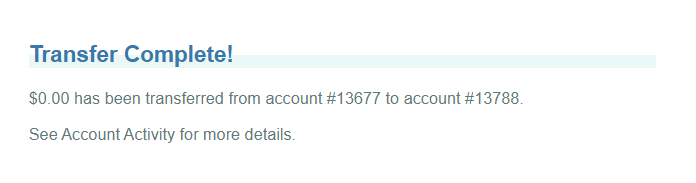
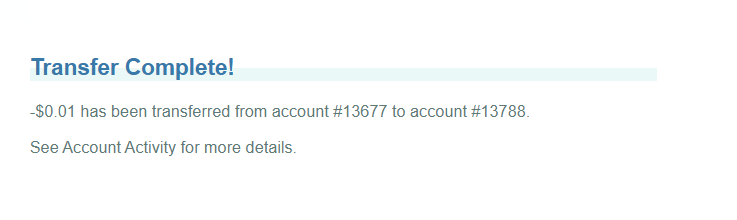
Спринт 3: виправлення за рев'ю викладача

Changed region(s): [[0.0302, 0.4645, 0.7543, 0.5738], [0.0302, 0.6284, 0.4224, 0.765], [0.0302, 0.2459, 0.3319, 0.3825]]

diff --git a/docs/sprint3/README.md b/docs/sprint3/README.md
@@ -1,7 +1,7 @@
 # Спринт 3 — «Тест-кейси та звіти про дефекти» (Досьє якості v3)
 
 **Дисципліна:** Технології забезпечення якості програмних засобів  
-**Команда:** Група F  
+**Команда:** Група D  
 **Продукт:** П2 «ФінКит» (`finkit`) — онлайн-банкінг для фізичних осіб; тестується demo-застосунок ParaBank  
 **Дата демо:** 23.11.2026  
 **Репозиторій команди:** [https://github.com/0ffmama/FinKit](https://github.com/0ffmama/FinKit)
@@ -11,48 +11,49 @@
 | ПІБ учасника | GitHub | Роль у Спринті 3 | Основна зона відповідальності у Спринті 3 |
 | :--- | :--- | :--- | :--- |
 | **Гонтар М. П.** | `@riply-a` | **Керівник тестування + Скрам-майстер / рецензент (КТ/СМ)** | Декомпозиція вимог, таблиця кейсів і журналу, контроль покриття й нормативів, рішення щодо P1/P2/blocked, рецензування кожного кейсу і звіту, README, таблиця задач, демо, ретроспектива |
-| **Фомін Т. В.** | `@0ffmama` | **Тест-аналітик (ТА)** | Тестові дані з префіксом `GD-`, кейси блоку B (перекази, оплата, кредит), виконання кейсів блоку A, звіти BUG-01…05 |
-| **Бугай Д. С.** | `@fialkaaw` | **Інженер з тестування (ІТ)** | Шаблон `bug_report.md` і мітки GitHub, середовище, кейси блоку A, виконання кейсів блоку B і журналу, звіти BUG-06…13 |
+| **Фомін Т. В.** | `@0ffmama` | **Тест-аналітик (ТА)** | Тестові дані з префіксом `GD-`, кейси блоку B (перекази, оплата, кредит), виконання кейсів блоку A, звіти BUG-01…05, BUG-15 |
+| **Бугай Д. С.** | `@fialkaaw` | **Інженер з тестування (ІТ)** | Шаблон `bug_report.md` і мітки GitHub, середовище, кейси блоку A, виконання кейсів блоку B і журналу, звіти BUG-06…14 |
 
 ## 2. Структура артефактів Спринта 3 у папці `docs/sprint3/`
 
-* [test-cases.md](./test-cases.md) (посилання на Google Sheets) — набір із 38 тест-кейсів (аркуші Test cases, Coverage, Review), журнал виконання Run 1, Environment і Test data.
-* [task-board.md](./task-board.md) — таблиця розподілу задач Спринта 3 (Шаблон 2).
+* [test-cases.xlsx](./test-cases.xlsx) — набір із 42 тест-кейсів (аркуші Test cases, Coverage, Review), журнал виконання Run 1, Environment і Test data; експорт робочої Google-таблиці ([test-cases.md](./test-cases.md)) станом на 23.11.2026 (§8).
+* [task-board.xlsx](./task-board.xlsx) — таблиця розподілу задач Спринта 3 (Шаблон 2); експорт робочої Google-таблиці ([task-board.md](./task-board.md)).
 * [attachments/](./attachments/) — скріншоти до звітів про дефекти (`BUG-NN-k.png`).
-* [GitHub Issues](https://github.com/0ffmama/FinKit/issues) — звіти про дефекти BUG-01…BUG-13.
+* [GitHub Issues](https://github.com/0ffmama/FinKit/issues) — звіти про дефекти BUG-01…BUG-15 (мітка `sprint:3`).
 * [retro.md](./retro.md) — протокол ретроспективи Спринта 3 за схемою `Start / Stop / Continue` та рішення на Спринт 4.
 
 ## 3. Статистика
 
 | Показник | Значення | Норматив |
 | :--- | :--- | :--- |
-| Тест-кейсів | 38 (позитивних 12, негативних 13, граничних 13) | ≥ 15 |
-| Виконано (Run 1) | passed 24, failed 10, skipped 3 (TC-025, TC-026, TC-038); TC-008 — повторний прогін після зміни даних; pass rate 24 / 34 = 70,6 % | усі |
-| Кейсів, що пройшли рецензування | 38 із 38 (100 %) | 100 % |
-| Звітів про дефекти | 12 дійсних (BUG-01…08, 10, 12, 13, 14); ще 2 закрито: BUG-09 — дубль BUG-06, BUG-11 — не дефект | ≥ 6 |
-| Рівні severity | critical (3), major (5), normal (2), minor (2) | ≥ 3 різних |
-| Звітів, що пройшли рецензування | 12 із 12 дійсних (100 %) | 100 % |
+| Тест-кейсів | 42 (позитивних 12, негативних 15, граничних 15); TC-023 і TC-029 розділено за правилом «один кейс — один набір даних» (§4.5): нові TC-039…TC-042 | ≥ 15 |
+| Виконано (Run 1) | 42 із 42: passed 25, failed 13, blocked 4 (TC-008 — BUG-15; TC-025, TC-026, TC-038 — немає тестових даних), skipped 0; pass rate = passed / (passed + failed + blocked) = 25 / 42 = 59,5 % | усі |
+| Кейсів, що пройшли рецензування | 32 із 42; 10 змінених за рев'ю кейсів (TC-001, 023, 025, 026, 029, 038, 039–042) — на повторній рецензії | 100 % |
+| Звітів про дефекти | 13 дійсних (BUG-01…08, 10, 12, 13, 14, 15); ще 2 закрито (`status:rejected`): BUG-09 — дубль BUG-06, BUG-11 — не дефект | ≥ 6 |
+| Рівні severity | critical (4), major (5), normal (2), minor (2); priority: P2 (1 — BUG-15), P3 (12) | ≥ 3 різних |
+| Звітів, що пройшли рецензування | 12 із 13 дійсних; BUG-15 (створено 23.11.2026) — на рецензії | 100 % |
 
 ## 4. Дефекти
 
 | ID | Issue | Короткий опис | Severity | Вимога | Виявлено кейсом |
 | :--- | :--- | :--- | :--- | :--- | :--- |
 | BUG-01 | [#1](https://github.com/0ffmama/FinKit/issues/1) | Реєстрація з порожнім полем «Телефон» створює обліковий запис без повідомлення про обов'язковість | major | GUI-30 | TC-002 |
-| BUG-02 | [#2](https://github.com/0ffmama/FinKit/issues/2) | «Пошук клієнта» повідомляє «не знайдено», якщо збіжні дані мають два і більше клієнтів | normal | F-30 | TC-008 (Run 1 до зміни даних; повторний прогін) |
+| BUG-02 | [#2](https://github.com/0ffmama/FinKit/issues/2) | «Пошук клієнта» повідомляє «не знайдено», якщо збіжні дані мають два і більше клієнтів | normal | F-30 | TC-008 (прогін 17.11.2026 з дублікатами даних; відтворюється власними кроками звіту) |
 | BUG-03 | [#3](https://github.com/0ffmama/FinKit/issues/3) | «Пошук операцій» за датою без операцій показує порожню таблицю без повідомлення | minor | F-90 | TC-011 |
 | BUG-04 | [#4](https://github.com/0ffmama/FinKit/issues/4) | Пряме посилання на сторінку кабінету після виходу повертає HTTP 500 замість сторінки входу | normal | S-20, F-120 | TC-014 |
 | BUG-05 | [#5](https://github.com/0ffmama/FinKit/issues/5) | Сеанс не завершується після 15 хвилин бездіяльності | major | S-10, GUI-80 | TC-017 |
 | BUG-06 | [#6](https://github.com/0ffmama/FinKit/issues/6) | Переказ на суму більшу за баланс (X + 0,01) виконується і формує від'ємний баланс | critical | F-70, BL-40 | TC-022 |
-| BUG-07 | [#7](https://github.com/0ffmama/FinKit/issues/7) | Переказ приймає нульову та від'ємну суми (0; -0,01) | critical | BL-40, GUI-50, GUI-75 | TC-023 |
+| BUG-07 | [#7](https://github.com/0ffmama/FinKit/issues/7) | Переказ приймає нульову та від'ємну суми (0; -0,01) | critical | BL-40, GUI-50 | TC-040, TC-041 |
 | BUG-08 | [#8](https://github.com/0ffmama/FinKit/issues/8) | Переказ із рахунку на той самий рахунок виконується без помилки | major | F-70, BL-40 | TC-024 |
-| ~~BUG-09~~ | [#9](https://github.com/0ffmama/FinKit/issues/9) | Закрито як дубль BUG-06: переказ 50 000,01 з рахунку з малим балансом показує перевищення балансу, а не денного ліміту | — | F-70, BL-40 | TC-026 (skipped) |
+| ~~BUG-09~~ | [#9](https://github.com/0ffmama/FinKit/issues/9) | Закрито як дубль BUG-06: переказ 50 000,01 з рахунку з малим балансом показує перевищення балансу, а не денного ліміту | — | F-70, BL-40 | TC-026 (blocked) |
 | BUG-10 | [#10](https://github.com/0ffmama/FinKit/issues/10) | Оплата рахунку на суму, що перевищує баланс (X + 0,01), виконується замість відхилення | critical | F-80 | TC-030 |
 | ~~BUG-11~~ | [#11](https://github.com/0ffmama/FinKit/issues/11) | Закрито як не дефект: demo відхилило заявку з поясненням причини, що допускає F-110 | — | F-110 | TC-031 (passed) |
 | BUG-12 | [#12](https://github.com/0ffmama/FinKit/issues/12) | Схвалюється заявка на кредит 999,99 грн, що менше мінімальної суми 1 000 грн | major | F-110, BL-30 | TC-032 |
 | BUG-13 | [#13](https://github.com/0ffmama/FinKit/issues/13) | Для суми кредиту 1 000 000,01 грн відмова пояснюється нестачею коштів замість перевищення максимуму | minor | F-110, BL-30 | TC-035 |
-| BUG-14 | [#14](https://github.com/0ffmama/FinKit/issues/14) | Переказ із порожньою або нечисловою («abc») сумою дає внутрішню помилку замість повідомлення біля поля | major | GUI-50, GUI-75 | TC-023 |
+| BUG-14 | [#14](https://github.com/0ffmama/FinKit/issues/14) | Переказ із порожньою або нечисловою («abc») сумою дає внутрішню помилку замість повідомлення біля поля | major | GUI-50, GUI-75 | TC-023, TC-039 |
+| BUG-15 | [#15](https://github.com/0ffmama/FinKit/issues/15) | Реєстрація з кириличними даними відхиляється з повідомленням «This username already exists» для нового логіна (з 23.11.2026) | critical | F-10, GUI-30 | TC-008 (повторний прогін 23.11.2026 — blocked) |
 
-Усі дефекти мають priority P3 (не блокують виконання інших кейсів).
+Усі дефекти, крім BUG-15, мають priority P3 (не блокують виконання інших кейсів). BUG-15 — P2: блокує повторний прогін TC-008 (статус blocked із цим Bug ID, §4.13).
 
 ## 5. Покриття вимог
 
@@ -66,8 +67,8 @@
 | F-40 | TC-018 |  |
 | F-50 | TC-019 |  |
 | F-60 | TC-018 |  |
-| F-70 | TC-020, TC-021, TC-022, TC-024, TC-025, TC-026, TC-037, TC-038 |  |
-| F-80 | TC-027, TC-029, TC-030 | Текст помилки «недостатньо коштів» SRS не задає |
+| F-70 | TC-020, TC-021, TC-022, TC-023, TC-024, TC-025, TC-026, TC-037, TC-038, TC-039, TC-040, TC-041 |  |
+| F-80 | TC-027, TC-029, TC-030, TC-042 | Текст помилки «недостатньо коштів» SRS не задає |
 | F-90 | TC-010, TC-011 | Покрито ID і дату; діапазон і суму додати за потреби |
 | F-100 | TC-012, TC-013 |  |
 | F-110 | TC-031, TC-032, TC-033, TC-034, TC-035, TC-036 |  |
@@ -78,16 +79,19 @@
 | GUI-30 | TC-001, TC-002, TC-003, TC-004 |  |
 | GUI-40 | TC-001, TC-005 |  |
 | GUI-45 | TC-018 |  |
-| GUI-50 | TC-023, TC-028 |  |
-| GUI-60 | TC-027, TC-028, TC-029 | GUI-60 і GUI-50 по-різному описують порожню суму |
+| GUI-50 | TC-023, TC-028, TC-039, TC-040, TC-041 |  |
+| GUI-60 | TC-027, TC-028, TC-029, TC-042 | Для порожньої «Суми» еталоном взято конкретніший текст GUI-50 |
 | GUI-70 | TC-031 |  |
-| GUI-75 | TC-002, TC-003, TC-004, TC-013, TC-016, TC-023, TC-028 | Перевіряється в негативних кейсах |
+| GUI-75 | TC-002, TC-003, TC-004, TC-013, TC-016, TC-023, TC-028, TC-039 | Перевіряється в негативних кейсах |
 | GUI-80 | TC-017 | Тривалий кейс, TC-017 |
 | BL-30 | TC-032, TC-033, TC-034, TC-035 | Строк 3..60 і ставка 5..40 у demo відсутні |
-| BL-40 | TC-021, TC-022, TC-023, TC-024, TC-025, TC-026, TC-037, TC-038 | Поле IBAN у demo відсутнє — перевіряються номери рахунків |
-| S-10 | TC-017 | Автозавершення сеансу через 15 хв; не F/GUI, поза обов'язковим покриттям |
-| S-20 | TC-014 | Доступ без авторизації → логін; не F/GUI, поза обов'язковим покриттям |
-| P-10, P-20, U-10, U-20, D-10, D-20 | не покрито | У SRS 1.1 ці вимоги наведено скорочено, без формулювань; перевірка поза межами Спринта 3 |
+| BL-40 | TC-021, TC-022, TC-024, TC-025, TC-026, TC-037, TC-038, TC-040, TC-041 | Поле IBAN у demo відсутнє — перевіряються номери рахунків; денний ліміт не перевірено (TC-025/026/038 blocked) |
+| S-10 | TC-017 | Автозавершення сеансу через 15 хв (BUG-05); не F/GUI — покрито додатково |
+| S-20 | TC-014 | Доступ без авторизації → вхід або 401/403 (BUG-04); не F/GUI — покрито додатково |
+| P-10, P-20 | не покрито | Потребують навантажувального тестування (≤ 3,0 с при 1–50 користувачах; 200 клієнтів 15 хв) — на публічному demo заборонено (етика §5.4); можливо лише на власному стенді |
+| U-10 | не покрито | Вимога юзабіліті (1 клік / ≤ 3 кроки), не F/GUI; пункти меню кабінету перевіряє TC-005 (GUI-40) без вимірювання кроків |
+| U-20 | не покрито | Окремого кейсу немає: ОР негативних кейсів перевіряють текст і місце повідомлення (GUI-30/50/60/75), але не збереження інших полів; кейс заплановано на Спринт 5 |
+| D-10, D-20 | не покрито | Документацію користувача та інструкцію адміністратора не передано на тестування; сторінка адміністрування спільного demo змінює дані інших користувачів (§5.4) |
 
 **Поза межами Спринта 3:** BL-10, BL-20, BL-50, BL-60, BL-70, BL-80 — Java-модуль без інтерфейсу в demo; перевіряється модульними тестами у Спринтах 4–5 згідно з `test-plan.md`. Для BL-30 перевірено лише суму кредиту, для BL-40 — номери рахунків замість IBAN.
 
@@ -95,10 +99,10 @@
 
 1. **Мова.** ParaBank англомовний, а SRS вимагає українські тексти; у кейсах назви елементів подано українською з англійськими відповідниками.
 2. **Порожня «Сума» в оплаті рахунку.** GUI-50 і GUI-60 задають різні тексти; еталоном взято GUI-50 («Сума є обов'язковою»).
-3. **Лімітні кейси.** TC-025, TC-026 і TC-038 мають статус `skipped`: demo відхиляє кредит із поясненням причини (це допустимо за F-110, тому не дефект), і рахунок із балансом ≥ 50 000 грн отримати не вдалося. Тому денний ліміт BL-40 у Спринті 3 не перевірено; BUG-09 закрито як дубль BUG-06 (перевищення балансу), BUG-11 — як не дефект.
-3a. **Незалежність TC-008.** У Run 1 кейс виконано з даними, що збігалися з іншими клієнтами demo. Тепер для всіх кейсів діє унікальний РНОКПП `1234567NNN`; TC-008 перероблено (1234567008) і потребує повторного прогону.
+3. **Лімітні кейси.** TC-025, TC-026 і TC-038 мають статус `blocked` (§4.7: кейс розпочато, але до кроку, що перевіряється, не дійшов — немає тестових даних): demo відхиляє кредит 100 000 із поясненням причини (це допустимо за F-110, тому не дефект), і рахунок із балансом ≥ 50 000 грн отримати неможливо; кейси зупиняються на кроці 5, як передбачає їхній ОР. Денний ліміт BL-40 у Спринті 3 не перевірено — його перевірять юніт-тести `TransferValidator` у Спринті 4. BUG-09 закрито як дубль BUG-06 (перевищення балансу), BUG-11 — як не дефект.
+3a. **Незалежність TC-008.** 17.11.2026 кейс виконано з РНОКПП 1234567890, спільним для клієнтів інших кейсів, і він дав failed (BUG-02 — відтворюється власними кроками звіту). Тепер у всіх кейсах — унікальний РНОКПП `1234567NNN` (аркуш Test data). Повторний прогін TC-008 23.11.2026 (РНОКПП 1234567008) — `blocked`: demo після скидання даних 23.11 відхиляє реєстрацію з будь-якими кириличними даними (BUG-15, P2).
 4. **Q-01–Q-04** із SRS-1.1 (формат дат, ліміт 50 000 грн, межа кредиту 1 000 грн) замовником ще не затверджені; у разі зміни граничні кейси буде переписано.
-5. **Середовище.** Блок A виконано в Chromium 156 (Arch Linux), блок B — у Chrome 131 (Windows 11); деталі — аркуш Environment. Перед кожним сеансом виконувалась Smoke-перевірка на акаунті `GD-AndriiTest`.
+5. **Середовище.** Блок A і повторний TC-008 виконано в Chromium 156 (Arch Linux), блок B — у Chrome 131 (Windows 11); обидва середовища — на аркуші Environment і в кожному рядку Run 1. Перед кожним сеансом виконувалась Smoke-перевірка на акаунті `GD-AndriiTest`.
 
 ## 7. Посилання
 
